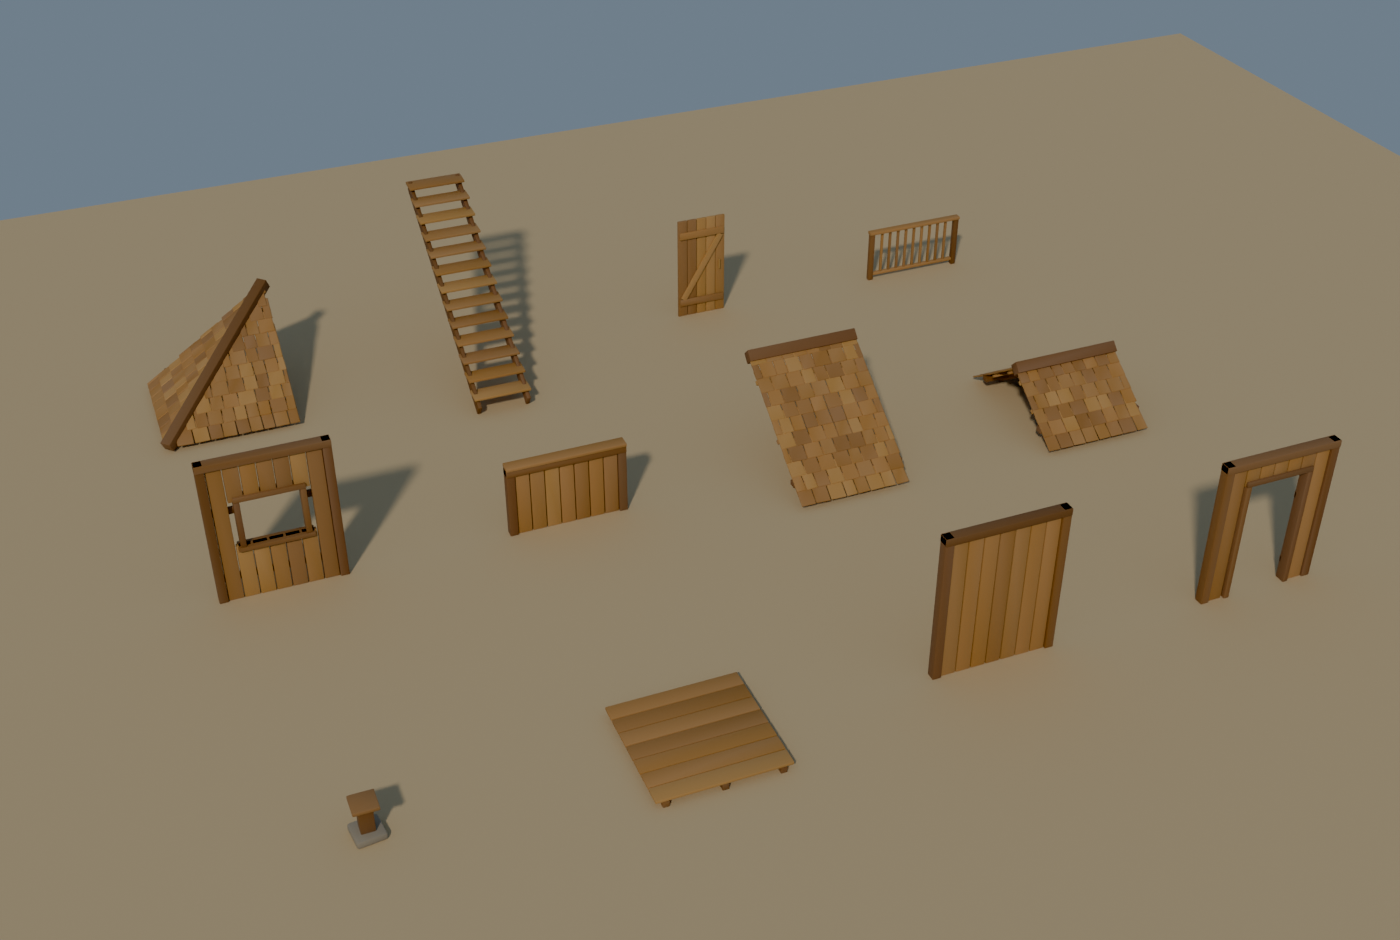
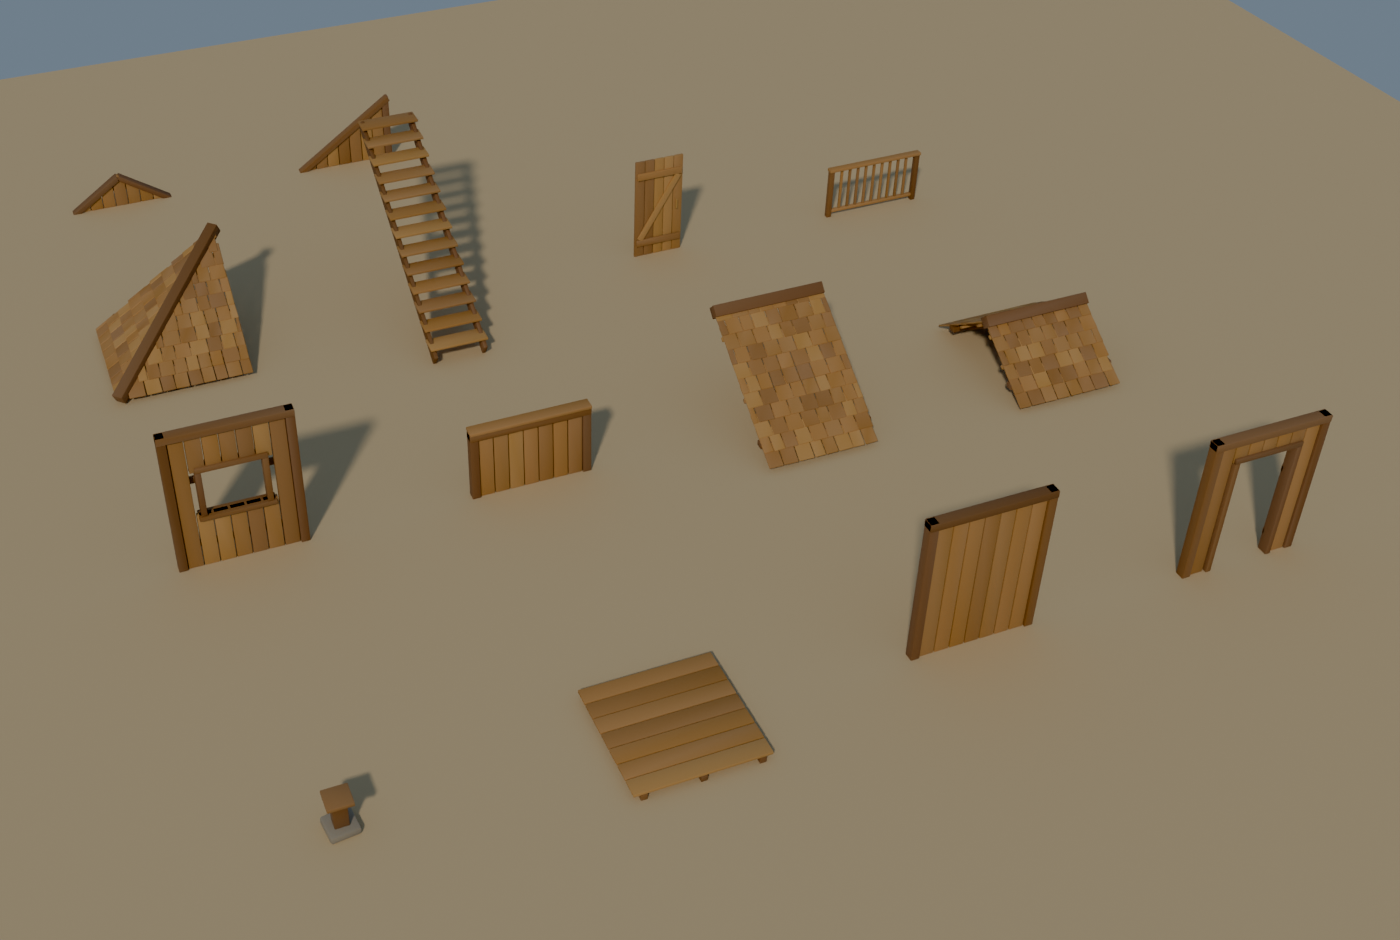
feat(modelos): hastiales del kit de construcción (dos aguas y un agua) en 4 materiales
Los tejados RoofGable/RoofShed dejaban abierto el triángulo del testero.
Nuevas piezas Gable y GableShed por material (8 mallas): la pared genérica
del material se recorta por el perfil del tejado (bisect + tapas
triangularizadas que heredan color y material de la cara vecina) y se
remata con una pieza en pendiente que tapa el corte.

- Añadidas al final de PIECES para no mover las semillas existentes.
- Pivote en la base (coronación de pared), 3 cm bajo la cobertura.
- Montaje: hastial en el testero oeste; catálogos a 4 x 4.
- validate.py: 154/154 props en verde (Blender 5.2.2, CPU).
- Documentado en docs/art/kit-construccion.md.

Claude-Session: https://claude.ai/code/session_01FuAiUjiVV72ERMmtmw5kfd

diff --git a/Tools/Blender/props/kit_construccion.py b/Tools/Blender/props/kit_construccion.py
@@ -84,6 +84,9 @@ PIECES = [
     ('Stairs', (100, 4000), True, False),
     ('Door', (60, 3000), False, True),
     ('Railing', (60, 3000), False, False),
+    # hastiales: al final para no mover las semillas de las piezas previas
+    ('Gable', (60, 4000), False, False),
+    ('GableShed', (60, 5000), False, False),
 ]
 
 VARIANTS = []
@@ -953,6 +956,133 @@ def _b_roof_corner(mat, rnd, name):
     pl.transform(swap)
     a.extend(pl)
     return a.finish(name)
+
+
+# ---------------------------------------------------------------------------
+# HASTIALES — cierran el triángulo que dejan los tejados en sus testeros.
+# Misma pared que las demás (corre a lo largo de X, pivote en el centro del
+# lado a z=0 = coronación de pared) recortada por el perfil del tejado.
+# ---------------------------------------------------------------------------
+GABLE_CLEAR = 0.03  # holgura vertical bajo la cobertura (sin z-fighting)
+
+
+def _clip_parts(p, planes):
+    """Recorta todas las piezas por los planos (co, normal) quedándose con
+    el semiespacio de detrás de la normal, y tapa los cortes. Cada pieza es
+    un volumen cerrado casi convexo, así que el borde de cada corte es un
+    polígono sencillo que holes_fill cierra bien. Las tapas copian el color
+    de vértice de la cara vecina (si no, salían negras)."""
+    for kind, objs in p.kinds.items():
+        keep = []
+        for o in objs:
+            bm = bmesh.new()
+            bm.from_mesh(o.data)
+            for co, no in planes:
+                geom = list(bm.verts) + list(bm.edges) + list(bm.faces)
+                bmesh.ops.bisect_plane(bm, geom=geom, plane_co=co, plane_no=no,
+                                       clear_outer=True, dist=1e-5)
+                if not bm.faces:
+                    break
+                old = set(bm.faces)
+                bmesh.ops.holes_fill(bm, edges=[e for e in bm.edges if e.is_boundary], sides=0)
+                col = bm.loops.layers.float_color.get('Col')
+                for f in bm.faces:
+                    if f in old:
+                        continue
+                    for lp in f.loops:
+                        src = next((l2 for l2 in lp.vert.link_loops if l2.face in old), None)
+                        if src is not None and col is not None:
+                            lp[col] = src[col]
+                        # la tapa hereda también el material de la vecina
+                    nb = next((l2.face for lp in f.loops for l2 in lp.vert.link_loops
+                               if l2.face in old), None)
+                    if nb is not None:
+                        f.material_index = nb.material_index
+                # los cortes por tiras subdivididas dejan varios vértices
+                # alineados en la tapa: triangularla y girar aristas evita
+                # triángulos de área nula (fallo de validate.py)
+                caps = [f for f in bm.faces if f not in old and len(f.verts) > 3]
+                if caps:
+                    tri = bmesh.ops.triangulate(bm, faces=caps, quad_method='BEAUTY',
+                                                ngon_method='BEAUTY')['faces']
+                    bmesh.ops.beautify_fill(bm, faces=tri, edges=list({e for f in tri for e in f.edges
+                                                                        if not e.is_boundary}))
+            bmesh.ops.dissolve_degenerate(bm, edges=bm.edges, dist=1e-4)
+            # descarta astillas: lo que queda por debajo de 3 cm de alto o
+            # de 2 cm de ancho en la punta del triángulo
+            if bm.verts:
+                zs = [v.co.z for v in bm.verts]
+                xs = [v.co.x for v in bm.verts]
+            if not bm.faces or max(zs) - min(zs) < 0.03 or max(xs) - min(xs) < 0.02:
+                bm.free()
+                bpy.data.objects.remove(o, do_unlink=True)
+                continue
+            bm.to_mesh(o.data)
+            bm.free()
+            o.data.update()
+            keep.append(o)
+        p.kinds[kind] = keep
+
+
+def _rake_trim(mat, rnd, p0, p1, prefix):
+    """Remate que sigue la pendiente sobre el hastial (tapa los cortes)."""
+    p = Parts()
+    if mat == 'Palm':
+        p.add(_rod(f'{prefix}Rake', p0, p1, 0.045, 'M_Wood', _pick(rnd, 'branch'), rnd), 'pole')
+    elif mat == 'Bamboo':
+        p.add(_bamboo(f'{prefix}Rake', p0, p1, 0.045, rnd, segs=10), 'pole')
+    else:
+        # madera: tabla de canto; piedra: dintel inclinado de madera oscura,
+        # igual que los cabios del tejado de lajas
+        m, length = _axis_matrix(p0, p1)
+        t = WALL_T[mat] + 0.04
+        o = C.make_box(f'{prefix}Rake', (0.1, t, length), center=(0, 0, length / 2))
+        o.data.transform(m)
+        M.assign(o, ['M_Wood'])
+        _tint(o, _pick(rnd, 'wood_dark'), rnd)
+        p.add(o, 'wood')
+    return p
+
+
+def _gable_parts(mat, rnd, profile):
+    """profile: lista de (x, z) de la línea de tejado a lo largo de la pared
+    (x de -1 a +1). Se construye una pared de la altura máxima y se recorta
+    por cada tramo recto del perfil."""
+    top = max(z for _, z in profile)
+    p = _wall_parts(mat, rnd, top + 0.25, [])
+    planes = []
+    for (xa, za), (xb, zb) in zip(profile, profile[1:]):
+        d = Vector((xb - xa, 0.0, zb - za)).normalized()
+        n = Vector((-d.z, 0.0, d.x))  # normal hacia arriba del tramo
+        if n.z < 0:
+            n = -n
+        planes.append((Vector((xa, 0.0, za)), n))
+    _clip_parts(p, planes)
+    for i, ((xa, za), (xb, zb)) in enumerate(zip(profile, profile[1:])):
+        lift = 0.05
+        k = _rake_trim(mat, rnd, (xa, 0, za - lift), (xb, 0, zb - lift), f'K{i}')
+        # el remate no baja de la coronación: pivote en la base (z = 0)
+        _clip_parts(k, [(Vector((0.0, 0.0, 0.0)), Vector((0.0, 0.0, -1.0)))])
+        p.extend(k)
+    return p
+
+
+@_register('Gable')
+def _b_gable(mat, rnd, name):
+    """Hastial para RoofGable: triángulo de 2 m de base y 0,70 m de alto.
+    Va bajo cada testero del tejado a dos aguas (girado 90°: la pared corre
+    a lo largo de Y del tejado, en x = ±1)."""
+    rise = HALF * math.tan(ROOF_PITCH) - GABLE_CLEAR
+    return _gable_parts(mat, rnd, [(-HALF, -GABLE_CLEAR), (0.0, rise), (HALF, -GABLE_CLEAR)]).finish(name)
+
+
+@_register('GableShed')
+def _b_gable_shed(mat, rnd, name):
+    """Hastial para RoofShed: triángulo rectángulo, bajo en -X y alto en +X
+    (1,40 m). Girado +90° queda con su +X hacia el +Y (lado alto) del
+    tejado a un agua; en ambos testeros (x = ±1) va con ese mismo giro."""
+    rise = GRID * math.tan(ROOF_PITCH) - GABLE_CLEAR
+    return _gable_parts(mat, rnd, [(-HALF, -GABLE_CLEAR), (HALF, rise)]).finish(name)
 
 
 # ---------------------------------------------------------------------------

diff --git a/Tools/Blender/props/preview_kit.py b/Tools/Blender/props/preview_kit.py
@@ -7,7 +7,7 @@ revisa aquí es justo que las piezas encajen en la rejilla.
         [--mode=all|catalog|montage] [--materials=Palm,Wood] [--samples=24]
 
 Escribe en docs/art/modelos/:
-    kit-construccion-<material>.png  catálogo de las 12 piezas (4 x 3)
+    kit-construccion-<material>.png  catálogo de las 14 piezas (4 x 4)
     kit-construccion-montaje.png     una cabaña montada por material con las
                                      mismas medidas de rejilla (detecta piezas
                                      flotando, huecos y solapes).
@@ -190,7 +190,7 @@ def catalog(mat, samples, res):
         bpy.context.view_layer.update()
         x0, x1, y0, y1, z0, _ = _bounds(obj)
         cx = (col - (cols - 1) / 2) * cell_x
-        cy = (row - 1) * cell_y
+        cy = (row - (math.ceil(len(K.PIECES) / cols) - 1) / 2) * cell_y
         obj.location = (cx - (x0 + x1) / 2, cy - (y0 + y1) / 2, -z0)
         objs.append(obj)
     out = os.path.join(OUT_DIR, f'kit-construccion-{MAT_SLUG[mat]}.png')
@@ -229,6 +229,9 @@ def _house(mat, ox, oy):
     piece('Railing', (0, -G - H, zw))
     piece('RoofGable', (0, 0, zr))
     piece('RoofGable', (G, 0, zr))
+    # hastial solo en el testero oeste (sobre pared completa); el este queda
+    # abierto sobre la media pared del porche lateral
+    piece('Gable', (-H, 0, zr), 90)
 
 
 def montage(mats, samples, res):

diff --git a/docs/art/kit-construccion.md b/docs/art/kit-construccion.md
@@ -1,7 +1,7 @@
 # Kit de construcción modular de la base
 
 Generado por código en `Tools/Blender/props/kit_construccion.py` (Blender 5.2
-headless). 12 piezas × 4 materiales = **48 mallas**, exportadas por
+headless). 14 piezas × 4 materiales = **56 mallas**, exportadas por
 `run_props.py` a `Art/Export/Props/Kit<Material>/SM_Kit_<Material>_<Pieza>.fbx`
 (grupos `KitPalma`, `KitBambu`, `KitMadera`, `KitPiedra` en el manifiesto).
 
@@ -65,6 +65,20 @@ Todas las piezas tienen el pivote en su base:
   - *Esquina (limatesa)*: aleros en −Y y −X, punto alto en (+1, +1). Empalma en su
     borde +X con un tejado a un agua normal y en su borde +Y con uno girado −90°.
     Altura = tan 35° · min(x+1, y+1).
+- **Hastiales** (`Gable`, `GableShed`): cierran el triángulo que el tejado deja
+  en su testero. Como una pared (corren a lo largo de X local, pivote en el
+  centro del lado) pero con z = 0 en la **coronación de pared**, igual que los
+  tejados. Se colocan en el lado de la celda perpendicular a la cumbrera, girados
+  90°, sobre una pared completa.
+  - `Gable` (dos aguas): triángulo de 2 m × 0,67 m, vértice en x = 0.
+  - `GableShed` (un agua): triángulo rectángulo, bajo en −X, alto en +X
+    (1,37 m). Con el giro de +90° su +X apunta al lado alto (+Y) del tejado; en
+    los dos testeros va con el mismo giro.
+  - Quedan 3 cm por debajo de la cara inferior de la cobertura (sin
+    z-fighting) y llevan un remate de pendiente (rama, caña, tabla de canto o
+    dintel de madera en piedra) que tapa el corte. Se generan recortando la
+    pared genérica del material por el perfil del tejado, así que heredan su
+    aparejo (hiladas de piedra, filas de hoja, tablas, cañas).
 - **Escalera**: centro del arranque en z = 0, sube hacia +Y hasta (y = 4, z = 2,65).
 - **Puerta**: bisagra en x = 0, la hoja se extiende hacia +X; colocarla en
   (−0,48, 0) del hueco para que abra girando sobre Z.
@@ -93,9 +107,11 @@ paleta son **lineales**: un 0,8 lineal ya se ve casi blanco en el render.
 | Tejado (3 tipos) | 7 000 | ≤ 6 432 |
 | Escalera | 4 000 | ≤ 3 404 |
 | Puerta, barandilla | 3 000 | ≤ 2 264 |
+| Hastial dos aguas | 4 000 | 1 882 / 2 582 / 1 286 / 938 |
+| Hastial un agua | 5 000 | 2 690 / 2 892 / 1 236 / 1 648 |
 
 `validate.py` comprueba presupuesto, geometría degenerada, color de vértice «Col»
-y materiales estables (48/48 en verde a 2026-09-26).
+y materiales estables (56/56 del kit en verde a 2026-09-26; 154/154 props en total).
 
 ## Mobiliario de base (`mobiliario_base.py`, grupo `MobiliarioBase`)
 
